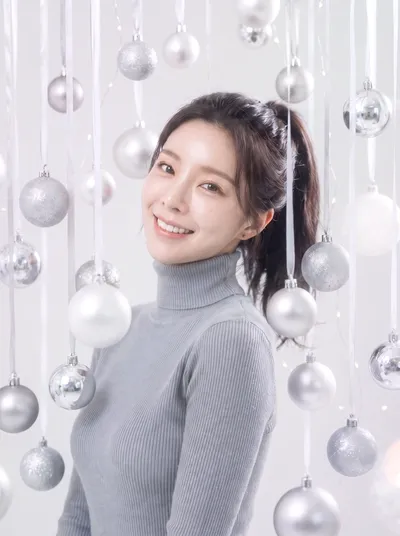
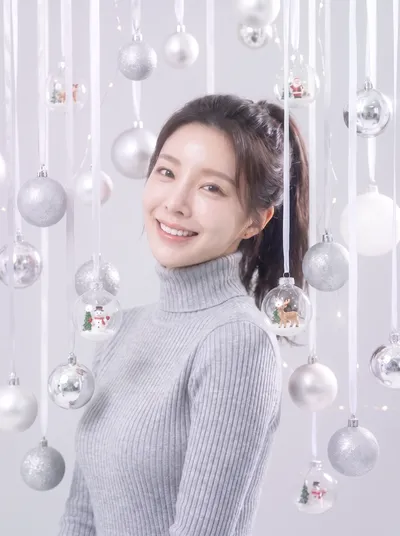
concepts: 실버 2장 중복 정리 — 1416 을 스노우볼 실버로 교체, 1421 삭제(오너), sw v254
Claude-Session: https://claude.ai/code/session_01H2YvAQhUpTna7rrNEqetDc

diff --git a/public/sw.js b/public/sw.js
@@ -10,7 +10,7 @@
 // 새 버전 배포 시: 아래 VERSION 만 올리면 됨.
 // ============================================================
 
-const VERSION = "v253";
+const VERSION = "v254";
 const STATIC_CACHE = `rimikimi-static-${VERSION}`;
 const THUMB_CACHE = `rimikimi-thumbs-${VERSION}`;
 const DATA_CACHE = `rimikimi-data-${VERSION}`;
